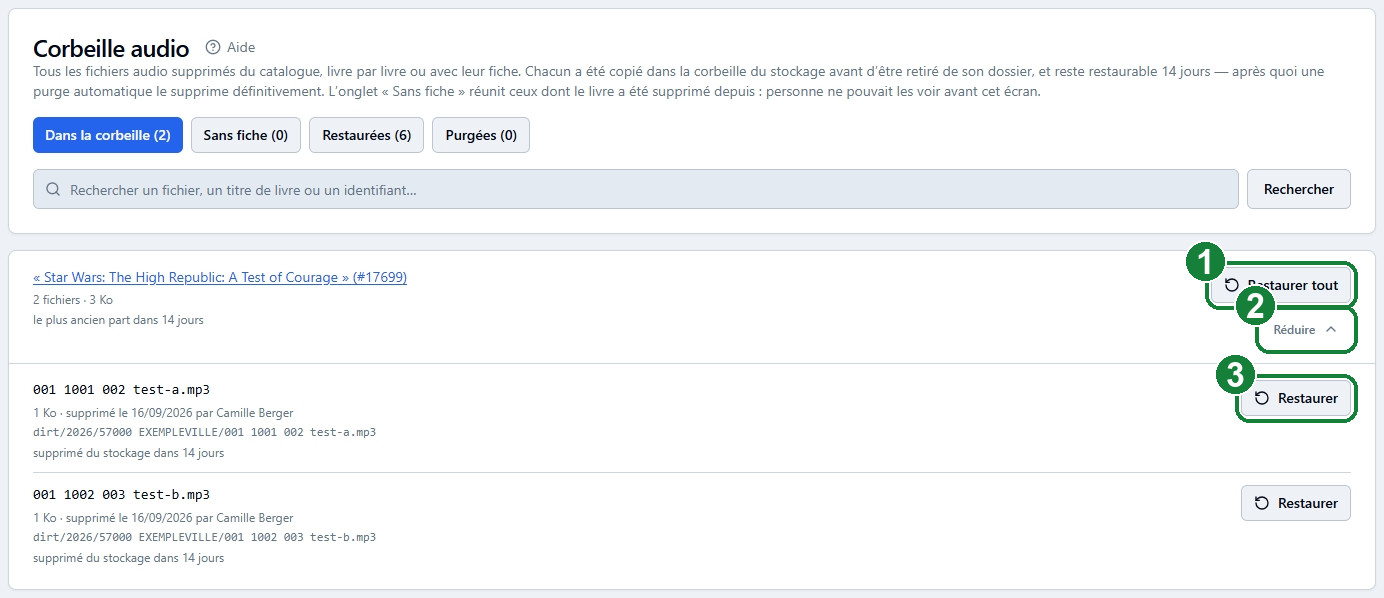
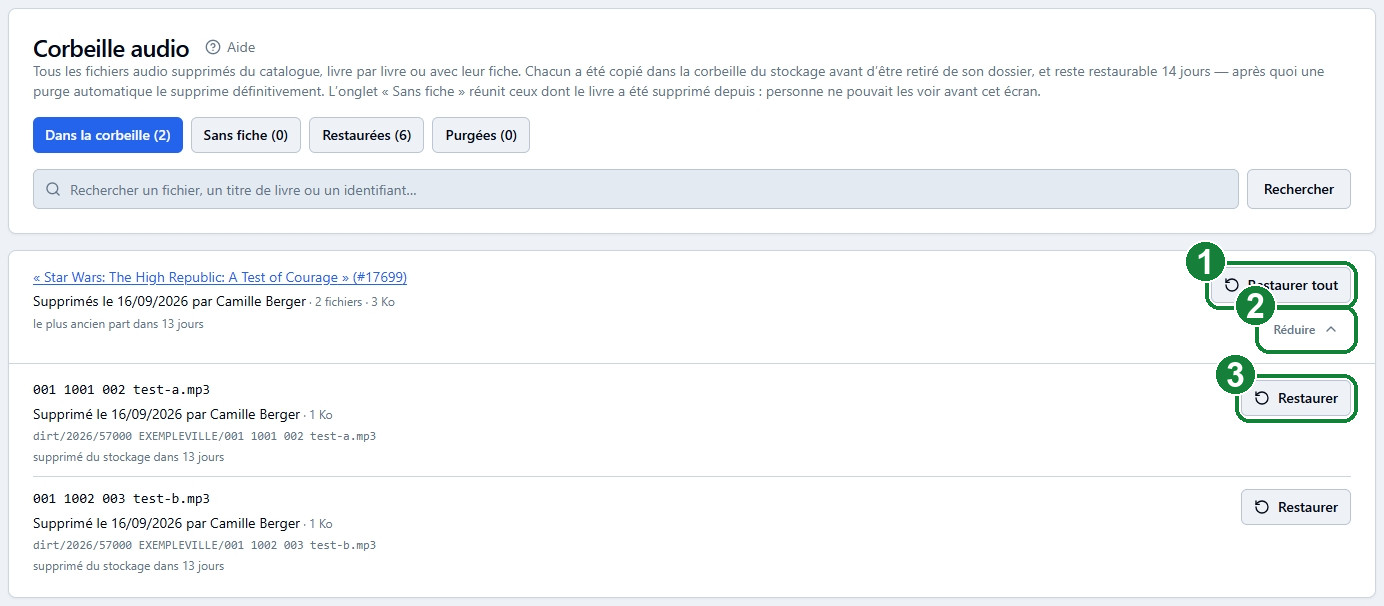
Corbeille audio : date de suppression visible, plus récentes en premier
- Tous les onglets trient désormais de la suppression la plus récente à la
  plus ancienne ; un bandeau ambre compte les fichiers que la purge prendra
  dans les 3 prochains jours, puisqu'ils se retrouvent en fin de liste.
- La date et l'auteur de la suppression passent sur leur propre ligne, et
  apparaissent aussi sur la carte d'un livre (intervalle si plusieurs jours).
- Les fichiers d'un livre déplié suivent l'ordre des pistes (tri naturel).
- Une carte sans fiche annonce avant le clic que la restauration aboutit
  dans Audio orphelin.
- Mode d'emploi et captures mis à jour.

diff --git a/app/admin/audio-corbeille/trash-client.tsx b/app/admin/audio-corbeille/trash-client.tsx
@@ -38,6 +38,8 @@ export interface TrashRow {
     retainForever: boolean;
     /** Quand la purge prendra ce fichier — null pour une ligne exemptée. */
     purgeEligibleAt: string | null;
+    /** Purge imminente — calculé côté serveur, même seuil que `urgentCount`. */
+    urgent: boolean;
     /** Le livre, s'il existe encore. */
     book: { id: number; title: string } | null;
     /** Ce qu'il en reste sinon (markTrashOrigin, lib/audio/trash.ts). */
@@ -70,6 +72,9 @@ interface Props {
     totalFiles: number;
     tabCounts: Record<TrashTab, number>;
     retentionDays: number;
+    /** Fichiers de l'onglet que la purge prendra d'ici `urgentDays` jours. */
+    urgentCount: number;
+    urgentDays: number;
     search: string;
     /** « Vouliez-vous dire … ? », computed only when the search found nothing. */
     searchSuggestions?: SearchSuggestion[];
@@ -103,13 +108,45 @@ function retentionLabel(item: TrashRow): string {
     return `supprimé du stockage dans ${left} jour${left > 1 ? 's' : ''}`;
 }
 
-/** Une purge imminente mérite d'être signalée, pas juste écrite. */
-const isUrgent = (item: TrashRow): boolean =>
-    !item.retainForever &&
-    item.purgeEligibleAt !== null &&
-    item.restoredAt === null &&
-    item.purgedAt === null &&
-    daysUntil(item.purgeEligibleAt) <= 3;
+/**
+ * Quand et par qui les fichiers d'un livre ont été supprimés, en une ligne.
+ * Une suppression en bloc tient en une date et une personne ; un livre vidé en
+ * plusieurs fois montre l'intervalle plutôt que de choisir une date au hasard.
+ */
+function deletionSummary(rows: TrashRow[]): string {
+    const days = [...new Set(rows.map((r) => formatDate(r.deletedAt)))];
+    // Les lignes arrivent triées par piste, pas par date : extrêmes explicites.
+    const times = rows.map((r) => r.deletedAt).sort();
+    const when =
+        days.length === 1
+            ? `Supprimés le ${days[0]}`
+            : `Supprimés entre le ${formatDate(times[0])} et le ${formatDate(times[times.length - 1])}`;
+    const people = [...new Set(rows.map((r) => personLabel(r.deletedBy)))];
+    const others = people.length - 1;
+    const who =
+        others === 0 ? people[0] : `${people[0]} et ${others} autre${others > 1 ? 's' : ''}`;
+    return `${when} par ${who}`;
+}
+
+/**
+ * Un fichier sans fiche ne retourne pas dans un livre : restaurer le remet
+ * dans le stockage, où il ressort comme dossier orphelin (voir actions.ts).
+ * Le dire avant le clic plutôt que laisser chercher où il est passé.
+ */
+function OrphanRestoreHint({ plural = false }: { plural?: boolean }) {
+    return (
+        <p className="text-xs text-muted-foreground">
+            {plural ? 'seront restaurés' : 'sera restauré'} dans{' '}
+            <Link
+                href="/admin/audio-orphelins"
+                className="text-blue-600 hover:text-blue-500 dark:text-blue-400 underline underline-offset-2"
+            >
+                Audio orphelin
+            </Link>
+            , faute de fiche où le rattacher
+        </p>
+    );
+}
 
 /** À quel livre ce groupe appartenait — la fiche si elle existe encore, sinon
  *  l'empreinte laissée à la suppression, sinon rien du tout. */
@@ -144,6 +181,8 @@ export default function TrashClient({
     totalFiles,
     tabCounts,
     retentionDays,
+    urgentCount,
+    urgentDays,
     search,
     searchSuggestions,
 }: Props) {
@@ -284,6 +323,23 @@ export default function TrashClient({
                 </CardHeader>
             </Card>
 
+            {/* Le tri met les suppressions les plus anciennes — celles que la
+                purge prendra d'abord — en fin de liste, parfois sur la dernière
+                page : ce bandeau les empêche de partir sans que personne ne les
+                voie. Compté sur tout l'onglet, indépendamment de la recherche. */}
+            {urgentCount > 0 && (
+                <div className="flex items-start gap-2 rounded-md border border-amber-500/40 bg-amber-500/10 p-3 text-sm text-amber-800 dark:text-amber-300">
+                    <AlertTriangle className="mt-0.5 h-4 w-4 flex-shrink-0" aria-hidden />
+                    <p>
+                        {urgentCount === 1
+                            ? '1 fichier de cet onglet sera supprimé'
+                            : `${urgentCount} fichiers de cet onglet seront supprimés`}{' '}
+                        définitivement dans les {urgentDays} prochains jours. Ce sont les plus
+                        anciens, en fin de liste, signalés en ambre.
+                    </p>
+                </div>
+            )}
+
             {groups.length === 0 && (
                 <Card>
                     <CardContent className="py-10 text-center text-sm text-muted-foreground">
@@ -361,15 +417,20 @@ interface FileRowProps {
     onRestore: (id: number) => void;
 }
 
+interface FileRowBodyProps extends FileRowProps {
+    /** Dans un groupe déplié, la carte du livre porte déjà la mention. */
+    hideOrphanHint?: boolean;
+}
+
 /** Le corps d'une ligne de corbeille : détails du fichier + bouton Restaurer. */
-function FileRowBody({ item, restoringId, busy, onRestore }: FileRowProps) {
+function FileRowBody({ item, restoringId, busy, onRestore, hideOrphanHint }: FileRowBodyProps) {
     return (
         <div className="flex flex-wrap items-start justify-between gap-4">
             <div className="min-w-0 flex-1 space-y-1">
                 <p className="font-mono text-sm text-foreground break-all">{item.filename}</p>
-                <p className="text-xs text-muted-foreground">
-                    {formatBytes(item.sizeBytes)} · supprimé le {formatDate(item.deletedAt)} par{' '}
-                    {personLabel(item.deletedBy)}
+                <p className="text-sm text-foreground">
+                    Supprimé le {formatDate(item.deletedAt)} par {personLabel(item.deletedBy)}
+                    <span className="text-xs text-muted-foreground"> · {formatBytes(item.sizeBytes)}</span>
                 </p>
                 <p className="font-mono text-xs text-muted-foreground break-all">{item.originalKey}</p>
 
@@ -382,16 +443,19 @@ function FileRowBody({ item, restoringId, busy, onRestore }: FileRowProps) {
                         supprimé définitivement du stockage le {formatDate(item.purgedAt)}
                     </p>
                 ) : (
-                    <p
-                        className={
-                            isUrgent(item)
-                                ? 'flex items-center gap-1.5 text-xs font-medium text-amber-700 dark:text-amber-300'
-                                : 'text-xs text-muted-foreground'
-                        }
-                    >
-                        {isUrgent(item) && <AlertTriangle className="h-3.5 w-3.5" aria-hidden />}
-                        {retentionLabel(item)}
-                    </p>
+                    <>
+                        <p
+                            className={
+                                item.urgent
+                                    ? 'flex items-center gap-1.5 text-xs font-medium text-amber-700 dark:text-amber-300'
+                                    : 'text-xs text-muted-foreground'
+                            }
+                        >
+                            {item.urgent && <AlertTriangle className="h-3.5 w-3.5" aria-hidden />}
+                            {retentionLabel(item)}
+                        </p>
+                        {!item.book && !hideOrphanHint && <OrphanRestoreHint />}
+                    </>
                 )}
             </div>
 
@@ -467,7 +531,7 @@ function GroupCard({
 }: GroupCardProps) {
     const { rows } = group;
     const totalSize = rows.reduce((sum, r) => sum + r.sizeBytes, 0);
-    const anyUrgent = rows.some(isUrgent);
+    const anyUrgent = rows.some((r) => r.urgent);
     const allRestored = rows.every((r) => r.restoredAt !== null);
     const allPurged = rows.every((r) => r.purgedAt !== null);
     // Un groupe n'est restaurable en bloc que dans les onglets actifs — même
@@ -503,8 +567,12 @@ function GroupCard({
                     <p className="text-sm text-foreground">
                         <BookIdentity group={group} />
                     </p>
-                    <p className="text-xs text-muted-foreground">
-                        {rows.length} fichiers · {formatBytes(totalSize)}
+                    <p className="text-sm text-foreground">
+                        {deletionSummary(rows)}
+                        <span className="text-xs text-muted-foreground">
+                            {' '}
+                            · {rows.length} fichiers · {formatBytes(totalSize)}
+                        </span>
                     </p>
                     <p
                         className={
@@ -516,6 +584,7 @@ function GroupCard({
                         {anyUrgent && <AlertTriangle className="h-3.5 w-3.5" aria-hidden />}
                         {statusLine}
                     </p>
+                    {!group.book && restorableIds.length > 0 && <OrphanRestoreHint plural />}
                 </div>
 
                 <div className="flex flex-shrink-0 flex-col items-end gap-2">
@@ -567,6 +636,7 @@ function GroupCard({
                                 restoringId={restoringId}
                                 busy={busy}
                                 onRestore={onRestore}
+                                hideOrphanHint
                             />
                         </div>
                     ))}

diff --git a/app/admin/audio-corbeille/page.tsx b/app/admin/audio-corbeille/page.tsx
@@ -14,6 +14,10 @@ export const revalidate = 0;
 // Livres (groupes) par page, pas fichiers — voir le commentaire sur GROUP_BY.
 const PER_PAGE = 25;
 
+/** Un fichier à ce nombre de jours ou moins de sa purge est signalé en ambre. */
+const URGENT_DAYS = 3;
+const DAY_MS = 86_400_000;
+
 /**
  * Ce qui identifie « le même livre » pour une ligne de corbeille : la fiche si
  * elle existe encore, sinon l'empreinte laissée par markTrashOrigin. Les trois
@@ -96,9 +100,8 @@ export default async function AudioCorbeillePage({ searchParams }: PageProps) {
     });
     const where = whereFor(q);
 
-    // La plus ancienne suppression d'abord dans les onglets actifs : c'est
-    // celle que la purge prendra la première.
-    const oldestFirst = tab === 'a-purger' || tab === 'sans-fiche';
+    const active = tab === 'a-purger' || tab === 'sans-fiche';
+    const now = new Date();
 
     /**
      * Un livre supprimé en bloc peut laisser 60-80 lignes dans la corbeille —
@@ -109,12 +112,19 @@ export default async function AudioCorbeillePage({ searchParams }: PageProps) {
      * partie — voir GROUP_BY), pas sur les lignes : un `groupBy` choisit les
      * groupes de cette page et leur ordre, puis une seconde requête ramène
      * toutes les lignes de ces groupes-là pour le détail dépliable.
+     *
+     * La suppression la plus récente d'abord, dans tous les onglets : on ouvre
+     * la corbeille pour rattraper une erreur qu'on vient de faire, et on la
+     * cherche en haut. Les onglets actifs triaient autrefois du plus ancien au
+     * plus récent (ce que la purge prendra en premier) ; cette urgence-là est
+     * désormais portée par le bandeau `urgentCount` et le liseré ambre, plus
+     * par l'ordre.
      */
-    const [pageGroups, allGroups, counts] = await Promise.all([
+    const [pageGroups, allGroups, counts, urgentCount] = await Promise.all([
         prisma.deletedAudioTrack.groupBy({
             by: GROUP_BY,
             where,
-            orderBy: oldestFirst ? { _min: { deletedAt: 'asc' } } : { _max: { deletedAt: 'desc' } },
+            orderBy: { _max: { deletedAt: 'desc' } },
             skip: pageSkip(page, PER_PAGE),
             take: PER_PAGE,
         }),
@@ -123,6 +133,22 @@ export default async function AudioCorbeillePage({ searchParams }: PageProps) {
         // livres jamais passés par la corbeille, pas du nombre de fichiers.
         prisma.deletedAudioTrack.groupBy({ by: GROUP_BY, where }),
         Promise.all(TABS.map((t) => prisma.deletedAudioTrack.count({ where: TAB_WHERE[t] }))),
+        // Ce que la purge prendra d'ici URGENT_DAYS jours, dans tout l'onglet —
+        // pas seulement la page affichée, puisque le tri met ces fichiers-là en
+        // fin de liste. Même seuil que `urgent` dans toTrashRow.
+        active
+            ? prisma.deletedAudioTrack.count({
+                  where: {
+                      ...TAB_WHERE[tab],
+                      retainForever: false,
+                      deletedAt: {
+                          lte: new Date(
+                              now.getTime() - (AUDIO_TRASH_RETENTION_DAYS - URGENT_DAYS) * DAY_MS,
+                          ),
+                      },
+                  },
+              })
+            : Promise.resolve(0),
     ]);
 
     const rows = pageGroups.length
@@ -135,9 +161,7 @@ export default async function AudioCorbeillePage({ searchParams }: PageProps) {
                       originBookTitle: g.originBookTitle,
                   })),
               },
-              orderBy: oldestFirst
-                  ? [{ deletedAt: 'asc' }, { id: 'asc' }]
-                  : [{ deletedAt: 'desc' }, { id: 'desc' }],
+              orderBy: [{ deletedAt: 'desc' }, { id: 'desc' }],
               include: {
                   book: { select: { id: true, title: true } },
                   deletedBy: { select: { name: true, email: true } },
@@ -146,29 +170,38 @@ export default async function AudioCorbeillePage({ searchParams }: PageProps) {
           })
         : [];
 
-    const toTrashRow = (r: (typeof rows)[number]): TrashRow => ({
-        id: r.id,
-        filename: r.filename,
-        originalKey: r.originalKey,
-        // BigInt ne survit pas à la sérialisation vers le client.
-        sizeBytes: Number(r.sizeBytes),
-        deletedAt: r.deletedAt.toISOString(),
-        restoredAt: r.restoredAt?.toISOString() ?? null,
-        purgedAt: r.purgedAt?.toISOString() ?? null,
-        retainForever: r.retainForever,
-        purgeEligibleAt: r.retainForever
+    const toTrashRow = (r: (typeof rows)[number]): TrashRow => {
+        const purgeEligibleAt = r.retainForever
             ? null
-            : new Date(
-                  r.deletedAt.getTime() + AUDIO_TRASH_RETENTION_DAYS * 86_400_000,
-              ).toISOString(),
-        book: r.book,
-        // L'empreinte laissée par markTrashOrigin : c'est tout ce qui reste du
-        // livre quand sa fiche a été supprimée.
-        originBookId: r.originBookId,
-        originBookTitle: r.originBookTitle,
-        deletedBy: r.deletedBy,
-        restoredBy: r.restoredBy,
-    });
+            : new Date(r.deletedAt.getTime() + AUDIO_TRASH_RETENTION_DAYS * DAY_MS);
+        return {
+            id: r.id,
+            filename: r.filename,
+            originalKey: r.originalKey,
+            // BigInt ne survit pas à la sérialisation vers le client.
+            sizeBytes: Number(r.sizeBytes),
+            deletedAt: r.deletedAt.toISOString(),
+            restoredAt: r.restoredAt?.toISOString() ?? null,
+            purgedAt: r.purgedAt?.toISOString() ?? null,
+            retainForever: r.retainForever,
+            purgeEligibleAt: purgeEligibleAt?.toISOString() ?? null,
+            // Calculé ici plutôt que dans le client : c'est le même seuil que le
+            // compte `urgentCount`, et le bandeau ne doit pas dire autre chose que
+            // les liserés.
+            urgent:
+                purgeEligibleAt !== null &&
+                r.restoredAt === null &&
+                r.purgedAt === null &&
+                purgeEligibleAt.getTime() - now.getTime() <= URGENT_DAYS * DAY_MS,
+            book: r.book,
+            // L'empreinte laissée par markTrashOrigin : c'est tout ce qui reste du
+            // livre quand sa fiche a été supprimée.
+            originBookId: r.originBookId,
+            originBookTitle: r.originBookTitle,
+            deletedBy: r.deletedBy,
+            restoredBy: r.restoredBy,
+        };
+    };
 
     const rowsByGroup = new Map<string, TrashRow[]>();
     for (const r of rows) {
@@ -176,6 +209,15 @@ export default async function AudioCorbeillePage({ searchParams }: PageProps) {
         const list = rowsByGroup.get(key);
         if (list) list.push(toTrashRow(r));
         else rowsByGroup.set(key, [toTrashRow(r)]);
+    }
+    // Dans un livre, l'ordre des pistes et non celui des suppressions : une
+    // suppression en bloc donne à 60-80 fichiers le même instant à la
+    // milliseconde près, ce qui revenait à un ordre quelconque. Tri « naturel »
+    // pour que « 2 » passe avant « 10 » ; à nom égal (un même fichier supprimé
+    // deux fois), la suppression la plus récente d'abord, ordre de la requête.
+    const byTrack = new Intl.Collator('fr', { numeric: true, sensitivity: 'base' });
+    for (const list of rowsByGroup.values()) {
+        list.sort((a, b) => byTrack.compare(a.filename, b.filename));
     }
 
     const groups: TrashGroup[] = pageGroups.map((g) => {
@@ -215,6 +257,8 @@ export default async function AudioCorbeillePage({ searchParams }: PageProps) {
                 restaurees: counts[2],
                 purgees: counts[3],
             }}
+            urgentCount={urgentCount}
+            urgentDays={URGENT_DAYS}
             retentionDays={AUDIO_TRASH_RETENTION_DAYS}
             search={q}
         />

diff --git a/content/aide/14-corbeille-audio.md b/content/aide/14-corbeille-audio.md
@@ -19,13 +19,15 @@ L'URL de cette page est https://eca-aveugles.fr/admin/audio-corbeille
 - **Restaurées** — les fichiers remis en place.
 - **Purgées** — les fichiers supprimés définitivement.
 
+Les suppressions les plus récentes apparaissent en premier, dans tous les onglets.
+
 La barre de recherche permet de retrouver un fichier par son nom ou par le titre du livre.
 
 ## Un groupe par livre
 
-Les fichiers d'un même livre sont regroupés sur une seule carte. Cliquez sur « **Voir les fichiers** » pour afficher le détail.
+Les fichiers d'un même livre sont regroupés sur une seule carte, qui indique la date de suppression et qui l'a faite. Cliquez sur « **Voir les fichiers** » pour afficher le détail, dans l'ordre des pistes.
 
-Chaque fichier indique qui l'a supprimé, quand, et dans combien de jours il sera supprimé définitivement. Un liseré ambre signale qu'il reste trois jours ou moins.
+Chaque fichier indique qui l'a supprimé, quand, et dans combien de jours il sera supprimé définitivement. Un liseré ambre signale qu'il reste trois jours ou moins. S'il y en a, un bandeau ambre en haut de l'onglet les compte : ce sont les suppressions les plus anciennes, donc en fin de liste.
 
 ## Restaurer
 
@@ -33,4 +35,4 @@ Chaque fichier indique qui l'a supprimé, quand, et dans combien de jours il ser
 
 ![Corbeille audio - un groupe déplié, fichier par fichier](/admin/aide/images/corbeille-audio-02.jpg)
 
-Si le livre n'existe plus, le fichier restauré apparaît dans la page [Audio orphelin](/admin/aide/audio-orphelin), où vous pourrez le rattacher à un livre.
+Si le livre n'existe plus, la carte le signale avant le clic : le fichier restauré apparaît dans la page [Audio orphelin](/admin/aide/audio-orphelin), où vous pourrez le rattacher à un livre.
